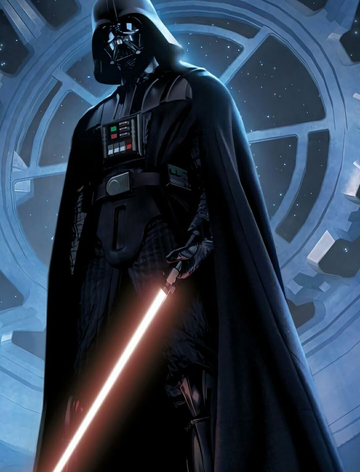
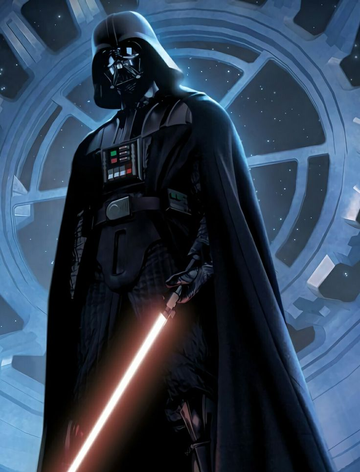
Drop Dr. Strange alt + re-crop Vader 2 (more headroom)
User direction: "get rid of dr strange's 2nd picture and darth
vader's 2nd picture cuts off his head so it needs to be readjusted."

- Deleted audio/cards/art/Dr. Strange 2.png and removed Dr. Strange
  from CARD_ART_VARIANTS. He's back to a single variant (the
  original Dr. Strange.png) — no name-click cycle, no picker badge.
- Re-cropped Darth Vader 2.png from the source. Previous crop was
  y=50 → y=1015 which put the figure's head at ~16 % from the top
  of the rendered portrait. New crop starts at y=0 (no top skip)
  → head now sits at ~21-41 % from top, well inside the safe zone
  and clear of the cost-square chrome at top-left.

Caches: _CARD_ART_VERSION 21→22, card-art-manifest.js → v9,
ui.js → v573.

diff --git a/index.html b/index.html
@@ -718,8 +718,8 @@
        0.peerjs.com signaling cloud — no server needed on our side. -->
   <script src="https://unpkg.com/peerjs@1.5.4/dist/peerjs.min.js"></script>
   <script src="multiplayer.js?v=5"></script>
-  <script src="card-art-manifest.js?v=8"></script>
-  <script src="ui.js?v=572"></script>
+  <script src="card-art-manifest.js?v=9"></script>
+  <script src="ui.js?v=573"></script>
   <script src="logger.js?v=5"></script>
   <!-- Always-on crash capture. Hooks window.onerror +
        unhandledrejection, surfaces a "Copy bug report" button when

diff --git a/card-art-manifest.js b/card-art-manifest.js
@@ -20,7 +20,6 @@
 window.CARD_ART_VARIANTS = {
   'Batman':              ['Batman.png',              'Batman 2.png'],
   'Hulk':                ['Hulk.png',                'Hulk 2.png'],
-  'Dr. Strange':         ['Dr. Strange.png',         'Dr. Strange 2.png'],
   'Darth Vader':         ['Darth Vader.png',         'Darth Vader 2.png'],
   'Symbiote Spider-Man': ['Symbiote Spider-Man.png', 'Symbiote Spider-Man 2.png'],
   'Venom':               ['Venom.png',               'Venom 2.png'],

diff --git a/ui.js b/ui.js
@@ -13,7 +13,7 @@ const UI = {
   // cached PNGs (which don't have built-in cache busters since they're
   // referenced via background-image url() and not the index.html
   // version-suffix system). Bump this every time you regen art.
-  _CARD_ART_VERSION: 21,
+  _CARD_ART_VERSION: 22,
 
   // =====================================================================
   // CARD ART VARIANTS
